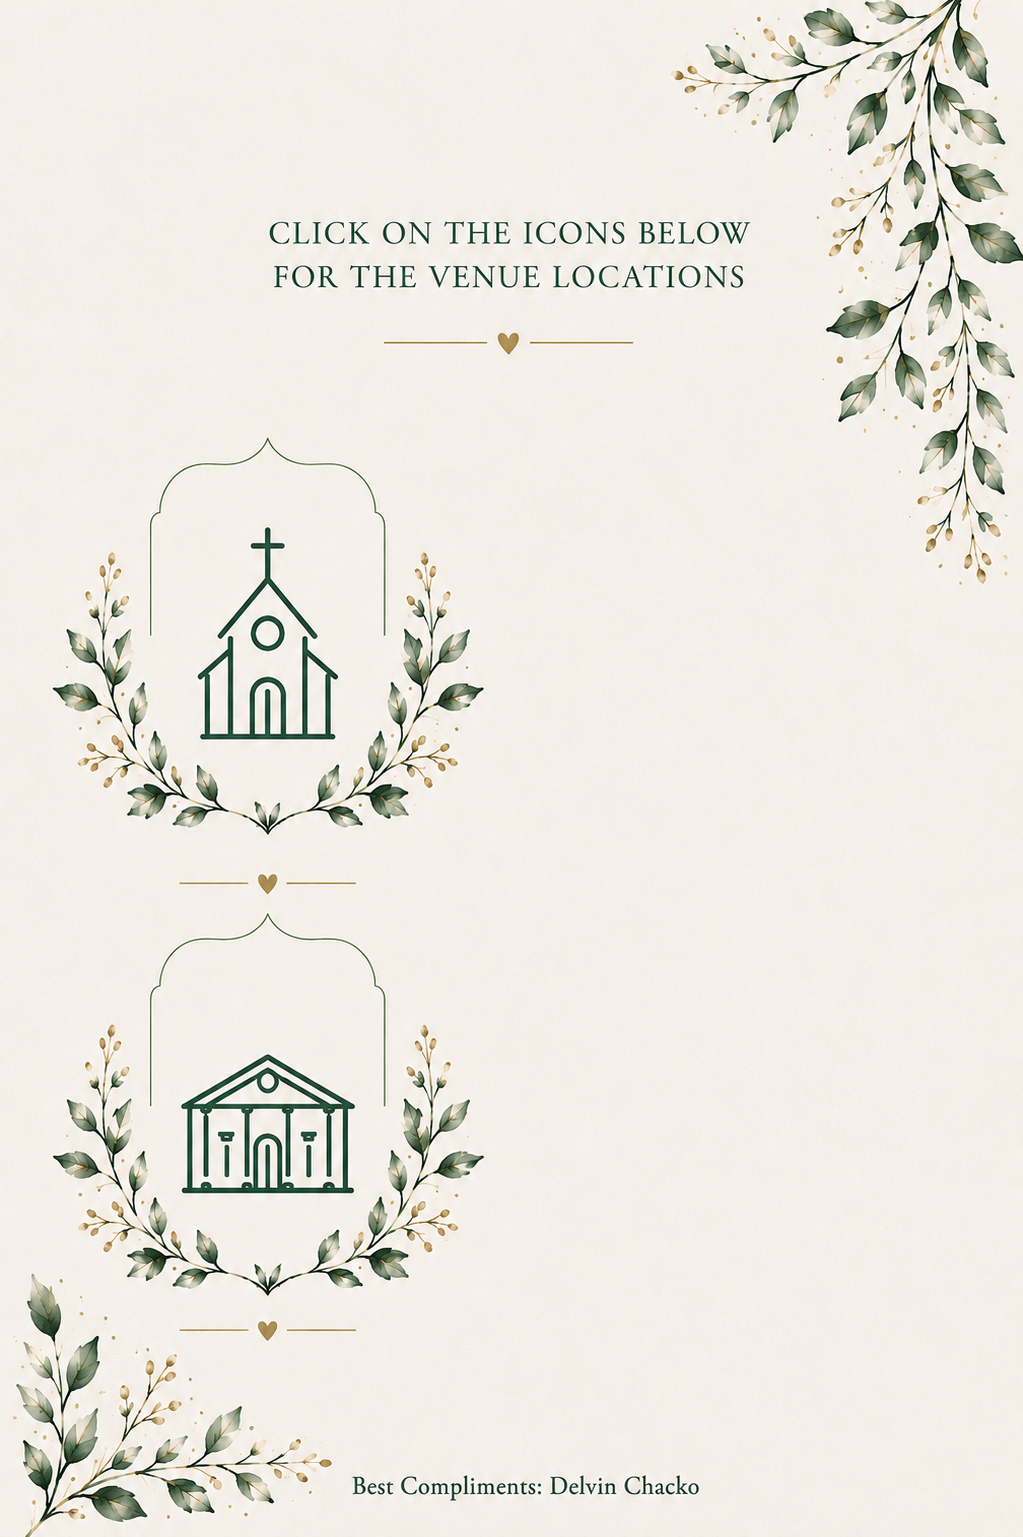
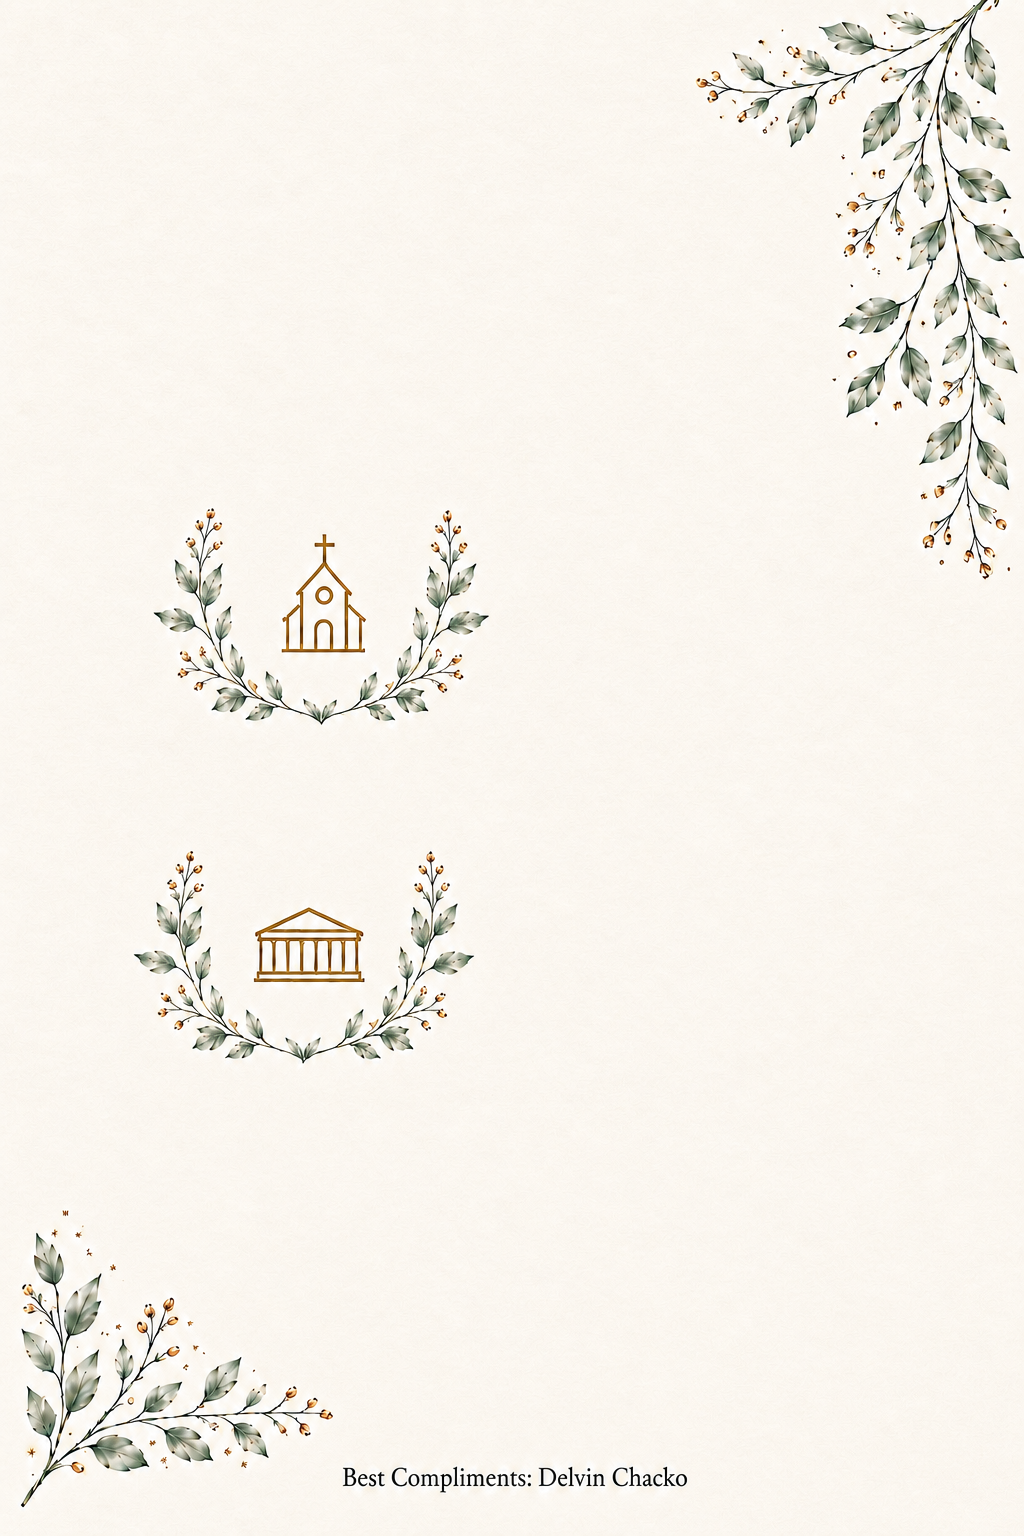
changed style

diff --git a/style.css b/style.css
@@ -205,6 +205,46 @@ body.is-open {
   display:block;
 }
 
+/* heading inside page 2 image area */
+.venue-heading{
+  position:absolute;
+
+  top:15%;
+  left:50%;
+  transform:translateX(-50%);
+
+  width:85%;
+  z-index:5;
+
+  text-align:center;
+
+  color:#6c7a6f;
+
+  font-family:"Cormorant Garamond", Georgia, serif;
+
+  font-size:clamp(.65rem,2.0vw,.85rem);
+
+  font-weight:600;
+
+  letter-spacing:.20em;
+
+  line-height:1.7;
+
+  text-transform:uppercase;
+}
+
+.venue-heading::after{
+  content:"❦";
+
+  display:block;
+
+  margin-top:.5rem;
+
+  color:#b89d67;
+
+  font-size:.95rem;
+}
+
 .location-frame{
   position:relative;
   width:100%;
@@ -232,7 +272,7 @@ body.is-open {
   align-items:center;
   justify-content:center;
 
-  width:42%;
+  width:30%;
   min-height:95px;
 
   padding:1rem;
@@ -261,14 +301,14 @@ body.is-open {
 
 
 .map-btn--church{
-   top:34%;
-   left:53%;
+   top:33%;
+   left:50%;
 }
 
 
 .map-btn--hall{
-   top:63%;
-   left:53%;
+   top:55%;
+   left:50%;
 }
 
 
@@ -292,7 +332,6 @@ body.is-open {
 
    line-height:1.35;
 }
-
 
 .map-btn__cta{
    display:block;

diff --git a/index.html b/index.html
@@ -45,6 +45,10 @@
         <!-- Page 2: venue locations (scroll down after opening) -->
         <section class="page-location" id="pageLocation" aria-hidden="true" aria-label="Venue locations">
           <div class="location-frame">
+            <div class="venue-heading">
+              CLICK ON THE ICONS BELOW <br>
+              FOR THE VENUE LOCATIONS
+            </div>
             <img src="location.png" alt="Venue locations — church and auditorium" class="location-image" draggable="false">
 
             <a
